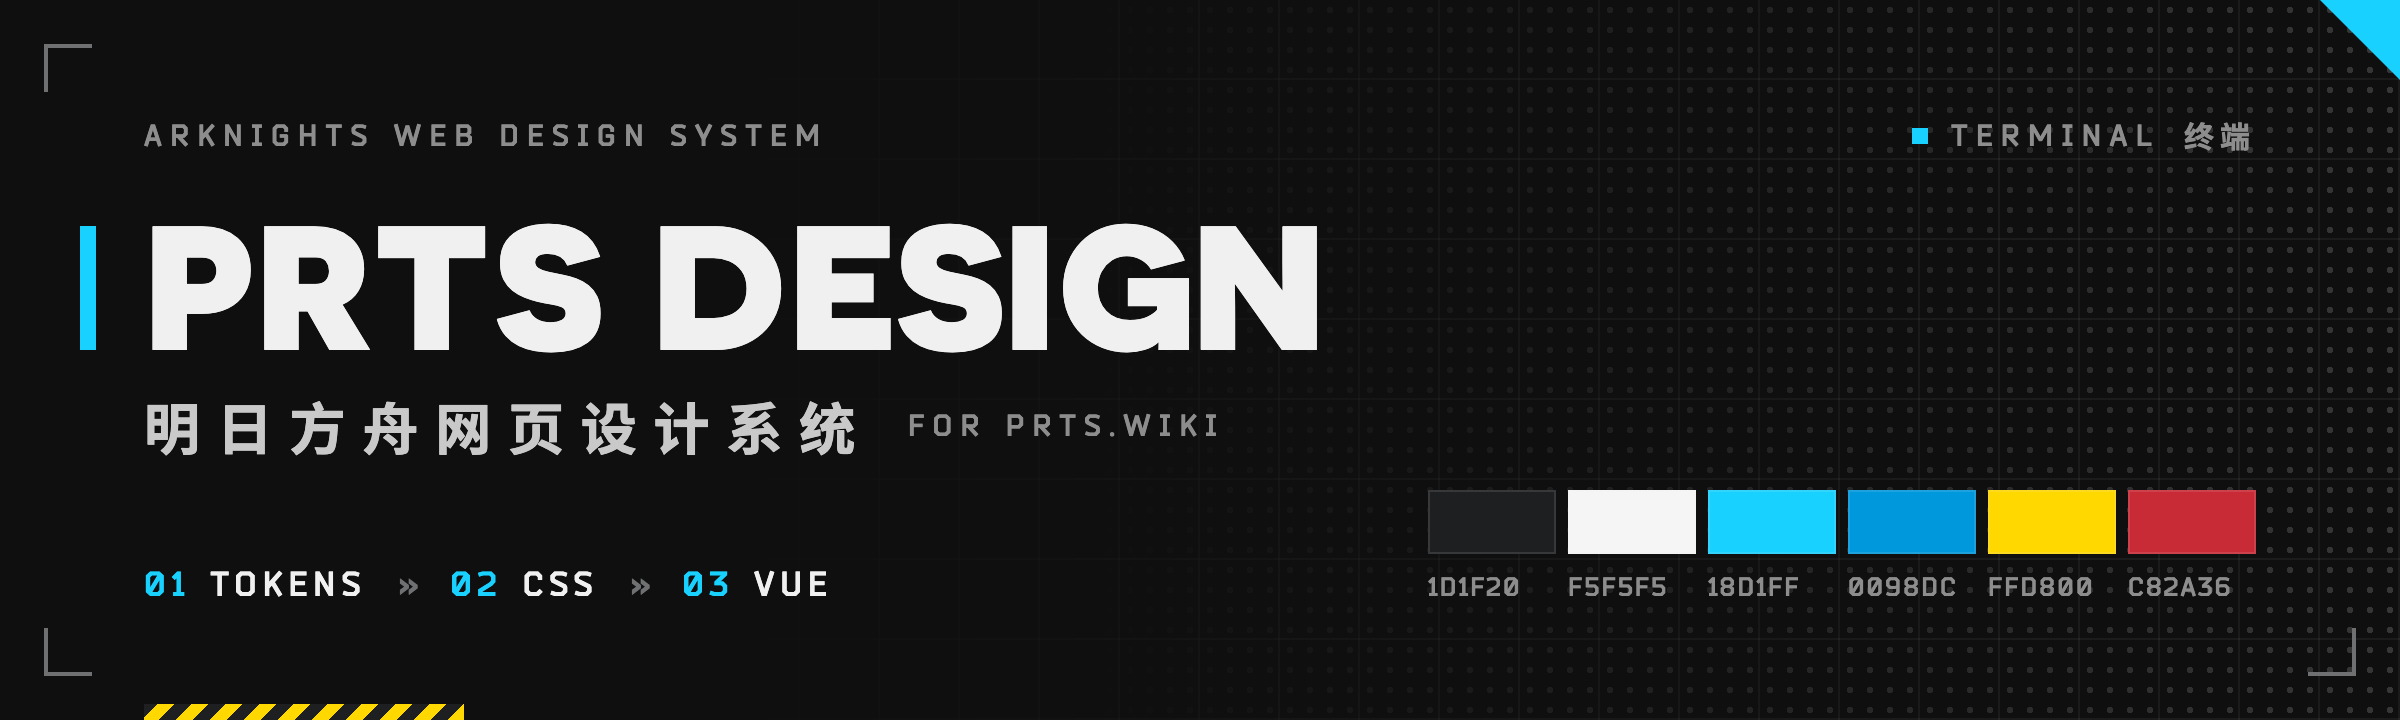
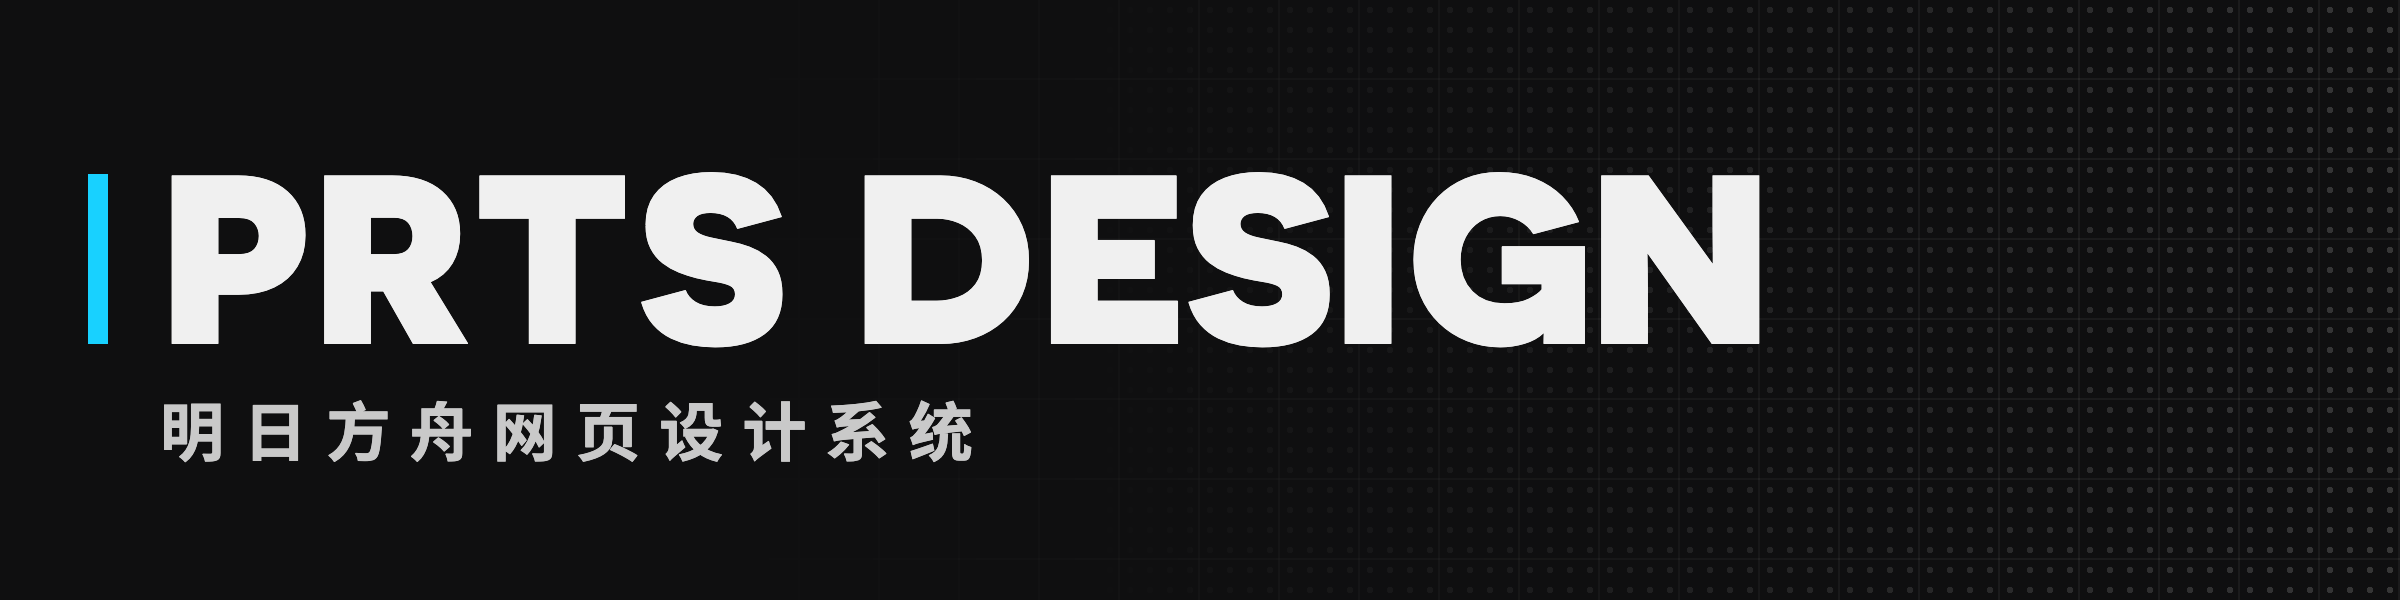
docs(readme): 头图只留标题，放大标题并压低画布

diff --git a/.github/assets/banner.html b/.github/assets/banner.html
@@ -9,7 +9,9 @@
 <link rel="stylesheet" href="../../packages/css/src/tokens.css">
 <style>
   html, body { margin: 0; }
-  .banner { position: relative; box-sizing: border-box; width: 1200px; height: 360px; padding: 60px 72px; overflow: hidden; isolation: isolate;
+  /* 标题 + 副标题，垂直居中 */
+  .banner { position: relative; box-sizing: border-box; width: 1200px; height: 300px; padding: 0 80px; overflow: hidden; isolation: isolate;
+    display: flex; flex-direction: column; justify-content: center;
     background: var(--ak-bg-canvas); color: var(--ak-fg); font-family: var(--ak-font-body); }
   .banner > i { position: absolute; display: block; pointer-events: none; }
 
@@ -19,65 +21,17 @@
   .dots { inset: 0; z-index: -1; background-image: radial-gradient(var(--ak-halftone-color) 1.5px, transparent 1.6px); background-size: 10px 10px;
     mask-image: linear-gradient(90deg, transparent 45%, #000 100%); }
 
-  /* 官网右上角三角 + 四角 HUD 括号 */
-  .corner { top: 0; right: 0; border-style: solid; border-width: 0 40px 40px 0; border-color: transparent var(--ak-accent) transparent transparent; }
-  .hud { width: 22px; height: 22px; border: 0 solid var(--ak-fg-subtle); }
-  .hud--tl { top: 22px; left: 22px; border-width: 2px 0 0 2px; }
-  .hud--bl { bottom: 22px; left: 22px; border-width: 0 0 2px 2px; }
-  .hud--br { bottom: 22px; right: 22px; border-width: 0 2px 2px 0; }
-
-  /* 主题标签（右上） */
-  .theme { position: absolute; top: 60px; right: 72px; margin: 0; display: flex; align-items: center; gap: 12px;
-    font: 700 15px/1 var(--ak-font-label); letter-spacing: .28em; color: var(--ak-fg-muted); }
-  .theme::before { content: ""; width: 8px; height: 8px; background: var(--ak-accent); }
-  .theme span { font: 700 15px/1 "Noto Sans SC", sans-serif; letter-spacing: .2em; }
-
-  .over { margin: 0; font: 700 15px/1 var(--ak-font-label); letter-spacing: .28em; color: var(--ak-fg-muted); text-transform: uppercase; }
-
-  /* 标题：左侧 8px 色条 + 色条下的短横条（官网标题的写法） */
-  .title { position: relative; margin: 26px 0 0; font: 800 88px/.86 var(--ak-font-display); letter-spacing: .01em; text-transform: uppercase; white-space: nowrap; }
-  .title::before { content: ""; position: absolute; left: -32px; top: .135em; bottom: .015em; width: 8px; background: var(--ak-accent); }
-  .sub { display: flex; align-items: center; gap: 18px; margin: 22px 0 0; font: 700 28px/1 "Noto Sans SC", sans-serif; letter-spacing: .3em; color: var(--ak-fg-secondary); }
-  .sub small { font: 700 15px/1 var(--ak-font-label); letter-spacing: .28em; color: var(--ak-fg-muted); }
-
-  /* 三层：令牌 → CSS → Vue */
-  .layers { position: absolute; left: 72px; bottom: 60px; display: flex; align-items: center; gap: 16px; margin: 0; padding: 0; list-style: none;
-    font: 700 17px/1 var(--ak-font-label); letter-spacing: .18em; }
-  .layers li { display: flex; align-items: center; gap: 10px; }
-  .layers li + li::before { content: "»"; margin-right: 6px; color: var(--ak-fg-subtle); letter-spacing: 0; }
-  .layers b { color: var(--ak-accent); }
-
-  /* 斜纹（黄黑）+ 色板 */
-  .hazard { left: 72px; bottom: 0; width: 160px; height: 8px;
-    background: repeating-linear-gradient(-45deg, var(--ak-yellow-500) 0 6px, #1d1f20 6px 12px); }
-  /* 色板：黑白为体、青 / 蓝为用、黄次强调、红只表示危险 */
-  .palette { position: absolute; right: 72px; bottom: 60px; display: flex; gap: 6px; margin: 0; padding: 0; list-style: none;
-    font: 700 13px/1 var(--ak-font-label); letter-spacing: .08em; color: var(--ak-fg-muted); }
-  .palette li { display: flex; flex-direction: column; gap: 10px; width: 64px; }
-  .palette li::before { content: ""; box-sizing: border-box; height: 32px; background: var(--c); border: 1px solid color-mix(in srgb, var(--ak-fg) 12%, transparent); }
+  /* 标题：左侧 10px 色条（官网标题的写法） */
+  .title { position: relative; margin: 0; font: 800 120px/.86 var(--ak-font-display); letter-spacing: .01em; text-transform: uppercase; white-space: nowrap; }
+  .title::before { content: ""; position: absolute; left: -36px; top: .135em; bottom: .015em; width: 10px; background: var(--ak-accent); }
+  .sub { margin: 24px 0 0; font: 700 32px/1 "Noto Sans SC", sans-serif; letter-spacing: .3em; color: var(--ak-fg-secondary); }
 </style>
 </head>
 <body>
 <main class="banner">
   <i class="grid"></i><i class="dots"></i>
-  <i class="corner"></i>
-  <i class="hud hud--tl"></i><i class="hud hud--bl"></i><i class="hud hud--br"></i>
-  <i class="hazard"></i>
-
-  <p class="theme"><b class="theme-en"></b><span class="theme-zh"></span></p>
-  <ul class="palette">
-    <li style="--c: #1d1f20">1D1F20</li><li style="--c: #f5f5f5">F5F5F5</li><li style="--c: #18d1ff">18D1FF</li><li style="--c: #0098dc">0098DC</li><li style="--c: #ffd800">FFD800</li><li style="--c: #c82a36">C82A36</li>
-  </ul>
-
-  <p class="over">Arknights web design system</p>
   <h1 class="title">PRTS Design</h1>
-  <p class="sub">明日方舟网页设计系统<small>FOR PRTS.WIKI</small></p>
-  <ol class="layers"><li><b>01</b>TOKENS</li><li><b>02</b>CSS</li><li><b>03</b>VUE</li></ol>
+  <p class="sub">明日方舟网页设计系统</p>
 </main>
-<script>
-  const dark = document.documentElement.dataset.theme === 'dark';
-  document.querySelector('.theme-en').textContent = dark ? 'TERMINAL' : 'ARCHIVE';
-  document.querySelector('.theme-zh').textContent = dark ? '终端' : '档案';
-</script>
 </body>
 </html>

diff --git a/scripts/build-readme-banner.ts b/scripts/build-readme-banner.ts
@@ -15,7 +15,7 @@ const src = pathToFileURL(resolve(dir, 'banner.html')).href;
 /* file:// 页面默认不能跨文件取字体（CORS），放开 */
 const browser = await chromium.launch({ args: ['--allow-file-access-from-files'] });
 try {
-  const page = await browser.newPage({ viewport: { width: 1200, height: 360 }, deviceScaleFactor: 2 });
+  const page = await browser.newPage({ viewport: { width: 1200, height: 300 }, deviceScaleFactor: 2 });
   for (const theme of ['dark', 'light']) {
     await page.goto(`${src}?theme=${theme}`);
     await page.evaluate(() => document.fonts.ready);
